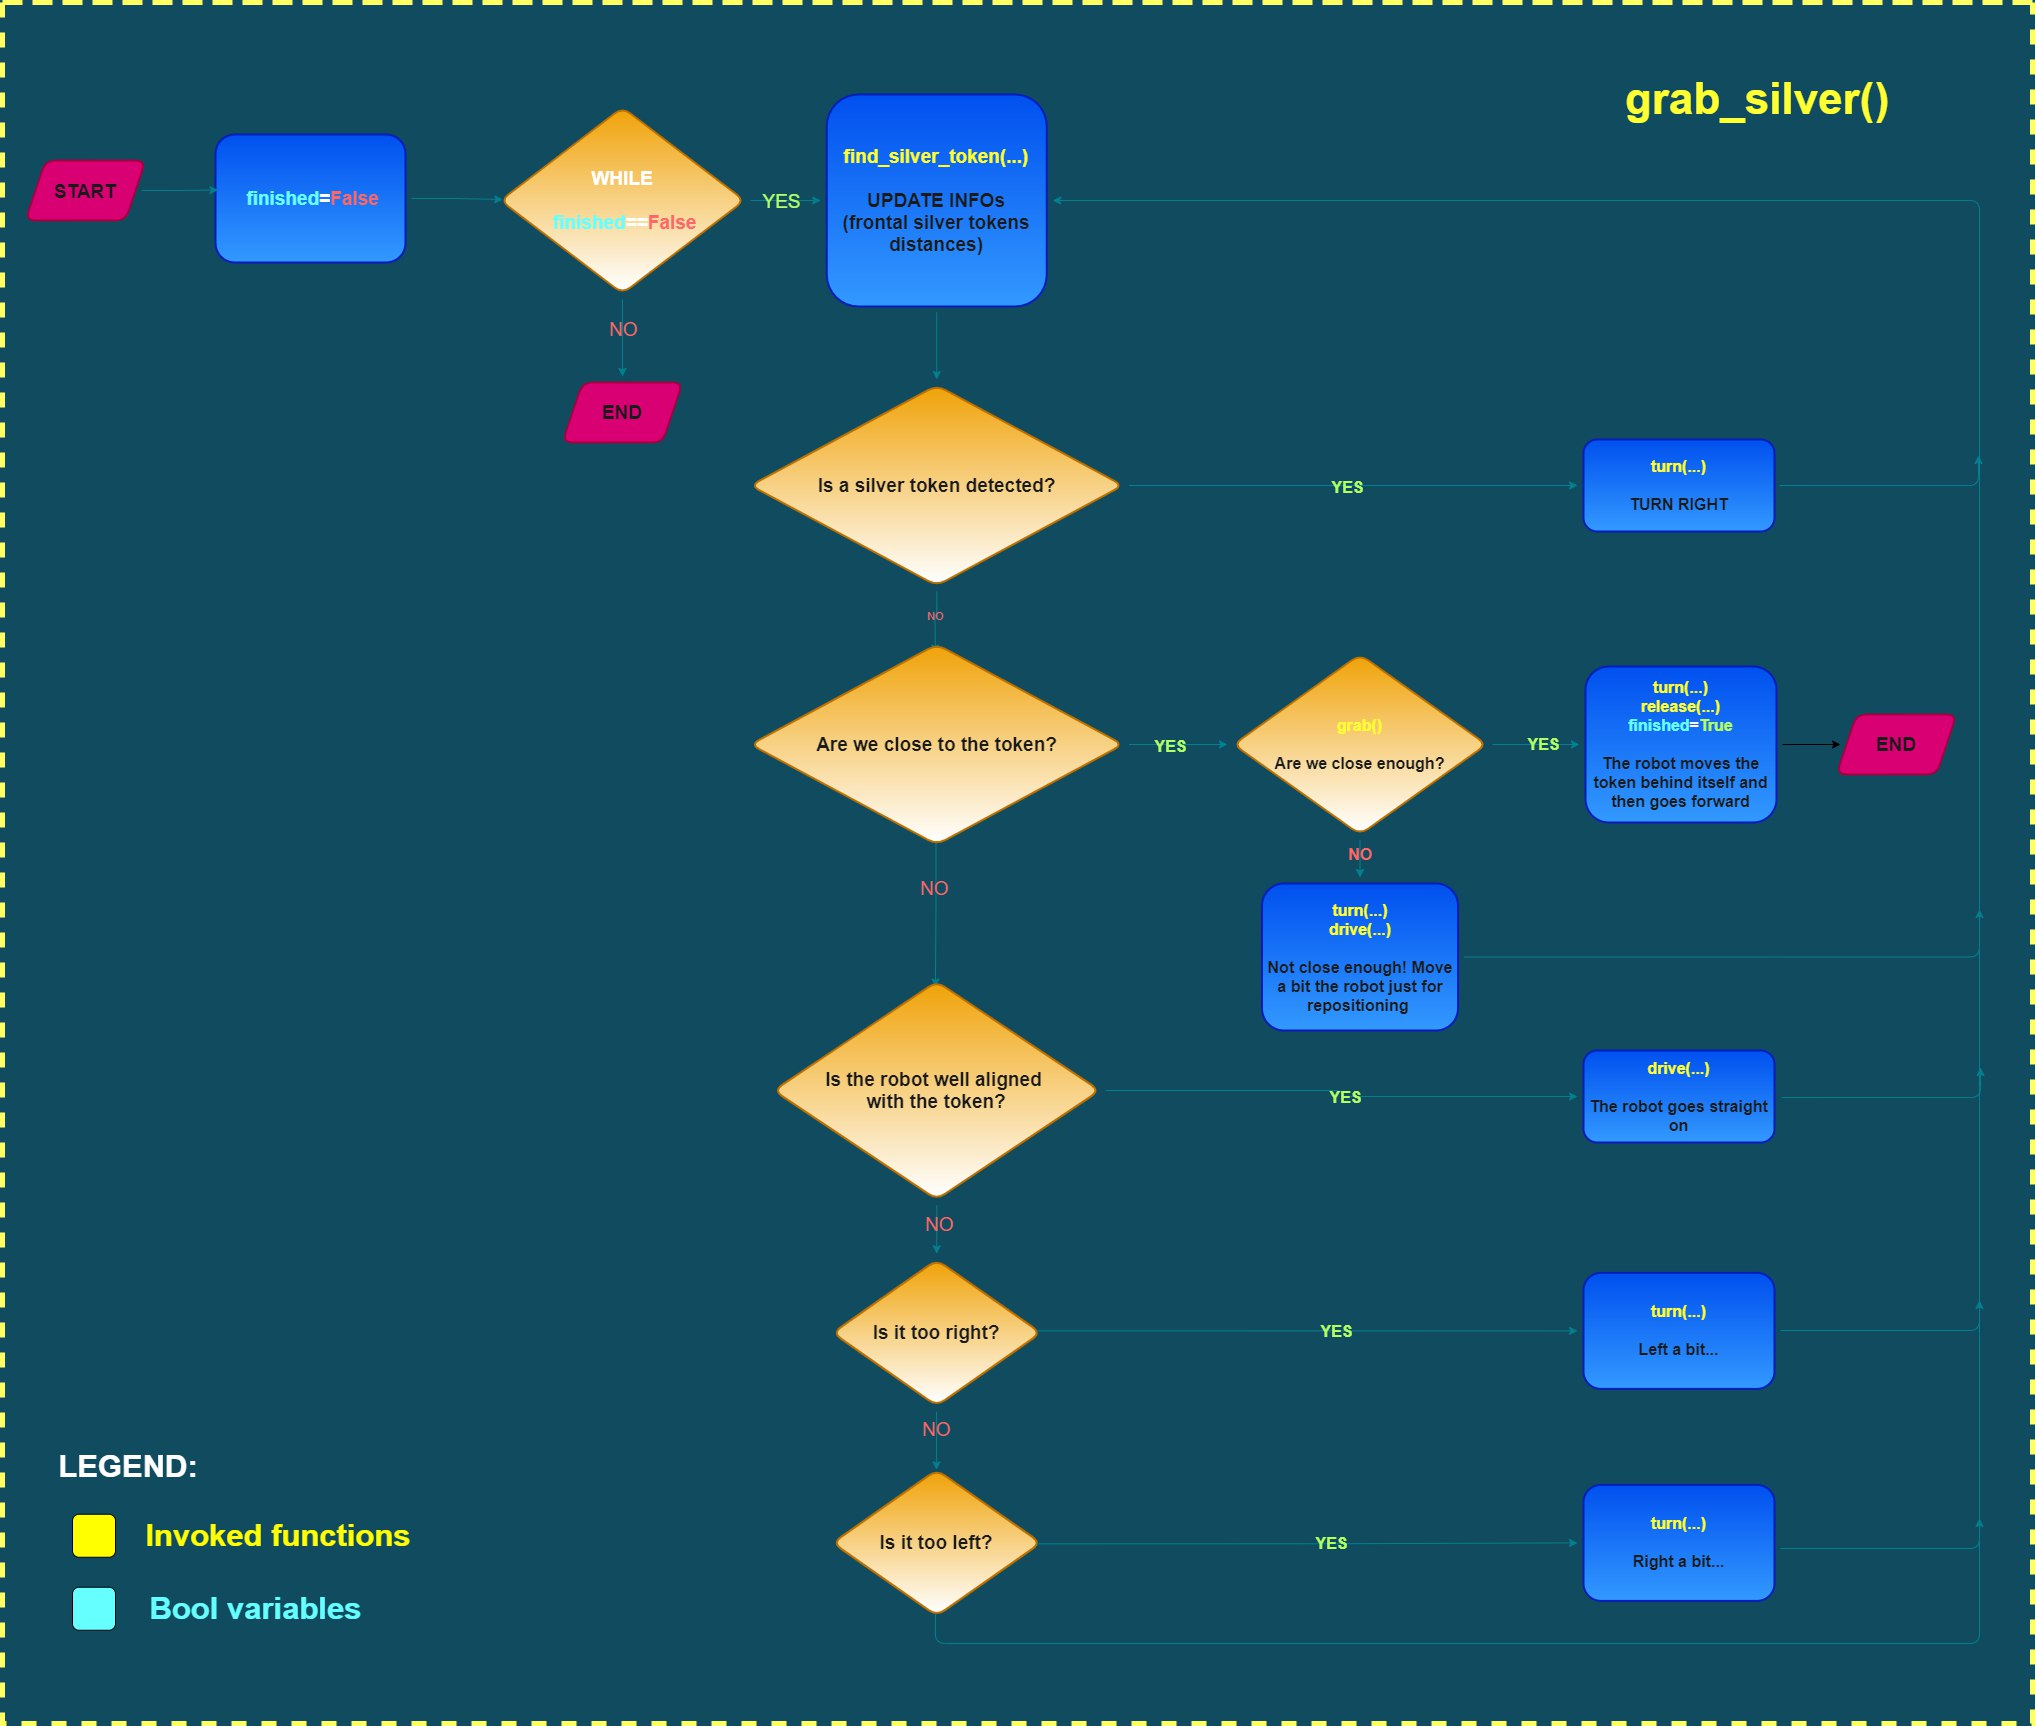
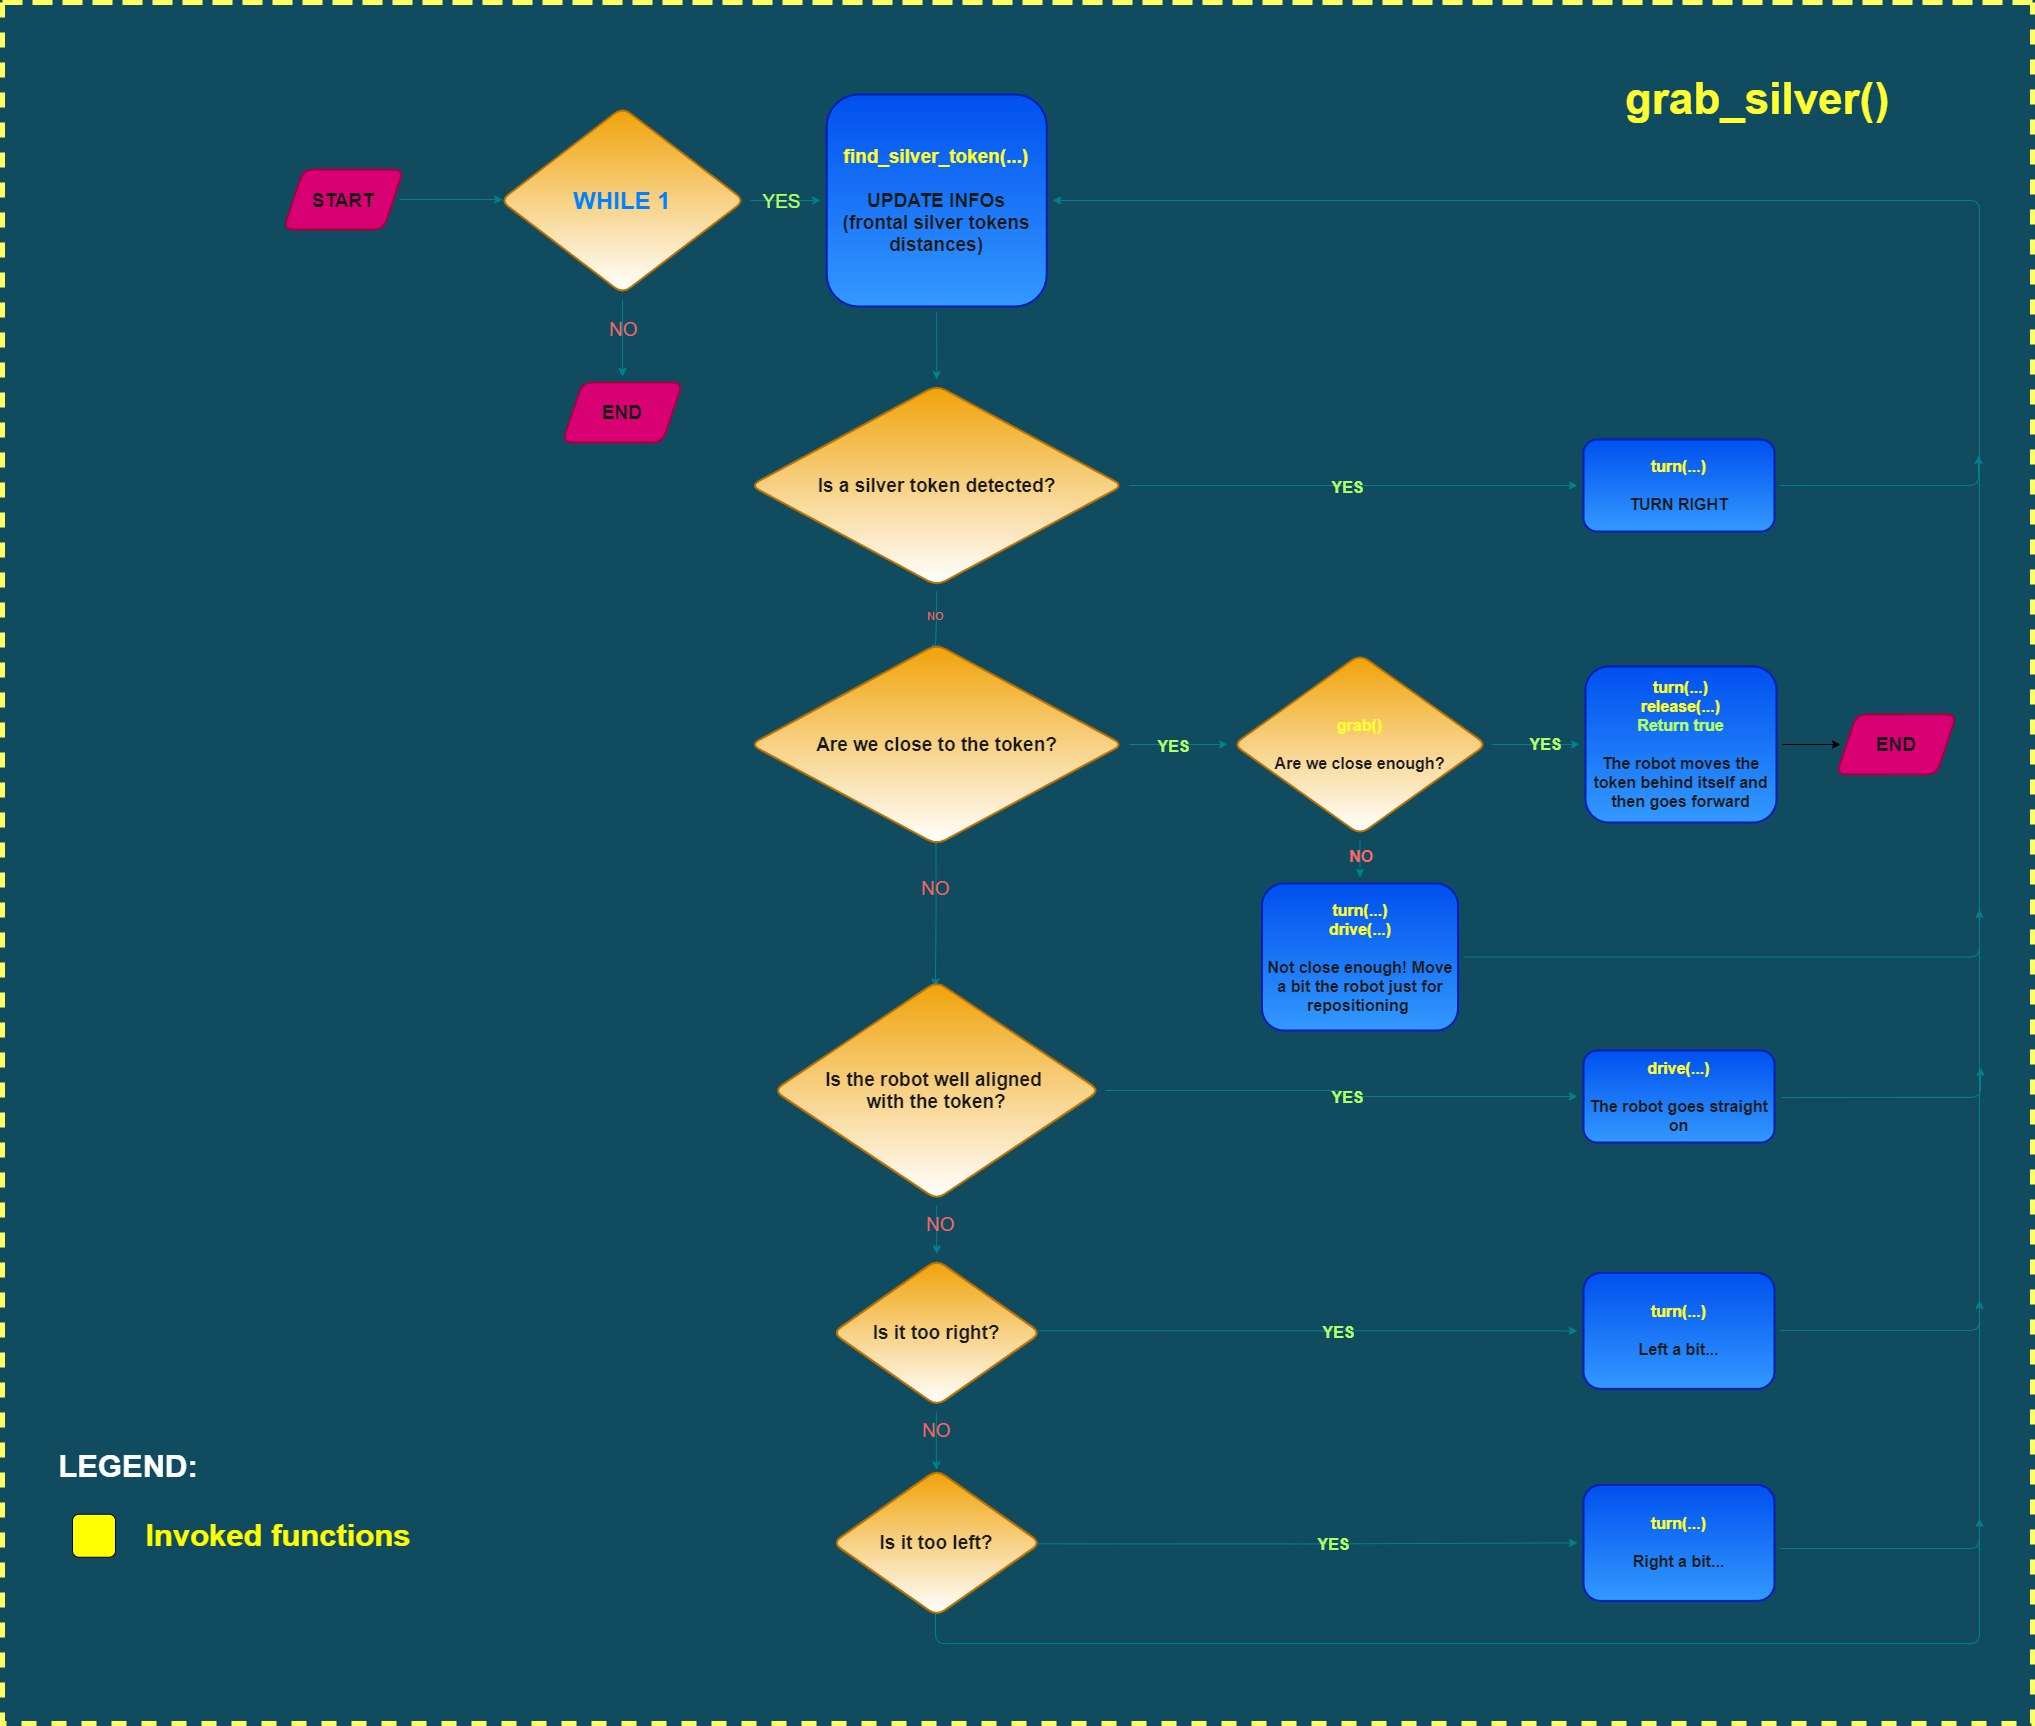
Final3

diff --git a/assignment.py b/assignment.py
@@ -112,7 +112,7 @@ def grab_silver():
 	"""
 	print("SILVER TOKEN DETECTED! LET'S GRAB IT..")
 	finished = False # bool: finished is false until the silver token is released and the robot is turned back to his initial position
-	while(not finished):
+	while(True):
 		dist, rot_y = find_silver_token() #retrieving information to manage the process
 		if dist == -1:  # if no token is detected, we make the robot turn
 			print("I don't see any token!!")
@@ -129,8 +129,8 @@ def grab_silver():
 			    print("turning again..")
 			    turn(-23, 3) #turn (-180 degrees)
 			    print("Ok, my work is done!")
-			    finished = True
-
+			    #finished = True
+			    return True
 			else:
 			   print("Aww, I'm not close enough.")
 			   drive(-10,1) #totally random movement to avoid grab() fails
@@ -231,7 +231,7 @@ def main():
 		
 		#If the distance of the silver token (dist) is lower than the specified threshold (a_th_svr) and within the range of (+- d_th_svr), then grab_silver()
 		if(dist_svr<a_th_svr and dist_svr!=-1 and rot_y_svr>-d_th_svr and rot_y_svr<d_th_svr):
-			lap=lap+1
+			tokens=tokens+1
 			grab_silver()	
 		else:
 			drive_around(dist_front_gld,dist_left_gld,dist_right_gld) #If the silver token is too far, then drive around!
